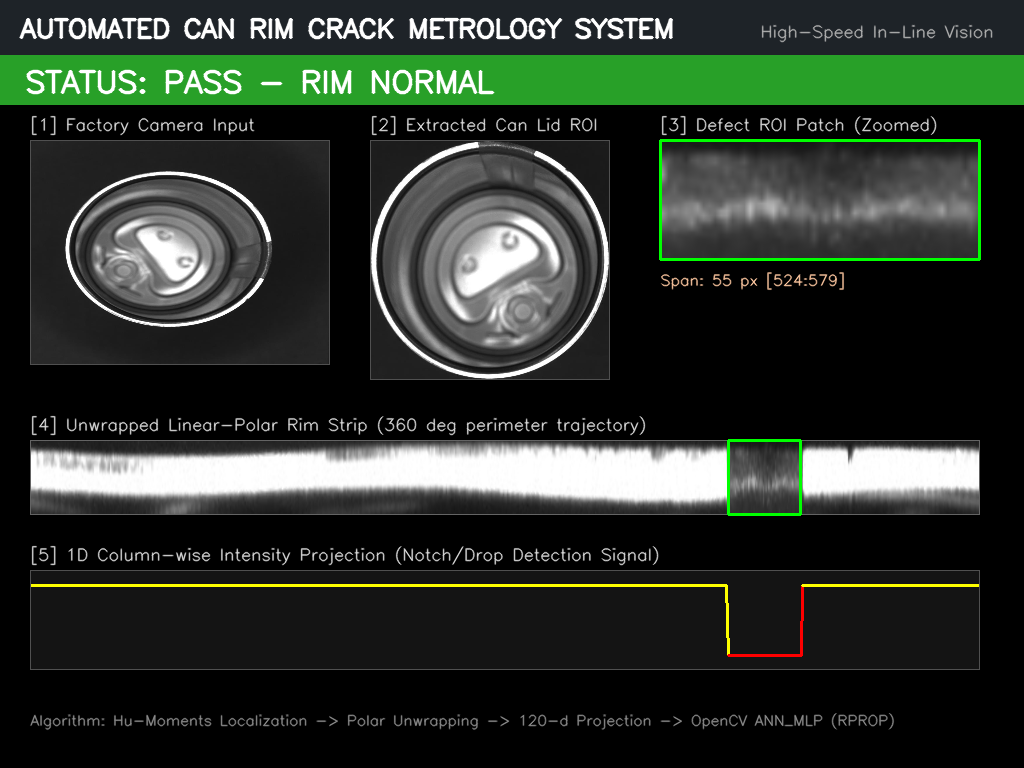
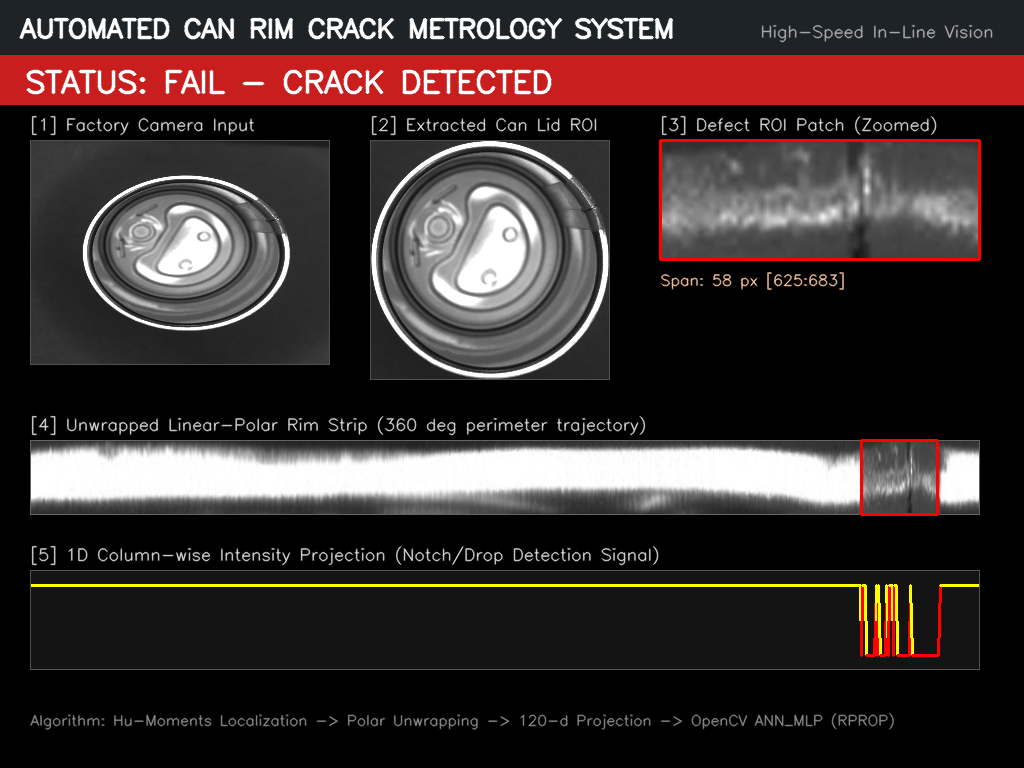
refactor: promote main.cpp to root, move auxiliary scripts to tools/, and configure .gitattributes for C++ dominance

diff --git a/README.md b/README.md
@@ -1,6 +1,6 @@
 # 🥫 ตรวจจับรอยแตกขอบฝากระป๋องด้วย OpenCV & ANN (Can Rim Crack Detection)
 
-ระบบตรวจสอบหา **รอยแตกที่แนวตะเข็บขอบฝากระป๋อง (Seam Flange Crack)** อัตโนมัติด้วย OpenCV และ Shallow Neural Network (`ANN_MLP`) พัฒนาด้วยภาษา C++ และ Python โดยใช้คณิตศาสตร์การแปลงพิกัดและการประมวลผลภาพแบบตรงไปตรงมา ไม่ต้องพึ่งพาโมเดล Deep Learning ขนาดใหญ่ ทำให้ทำงานได้เร็วระดับไมโครวินาทีและประหยัดสเปกเครื่อง เหมาะสำหรับงาน Machine Vision บนสายการผลิตจริงแบบ Real-time ครับ
+ระบบตรวจสอบหา **รอยแตกที่แนวตะเข็บขอบฝากระป๋อง (Seam Flange Crack)** อัตโนมัติด้วยภาษา C++ และ OpenCV ร่วมกับ Shallow Neural Network (`ANN_MLP`) โดยใช้คณิตศาสตร์การแปลงพิกัด Polar และการวิเคราะห์สัญญาณความสว่างแบบตรงไปตรงมา ไม่ต้องพึ่งพาโมเดล Deep Learning ขนาดใหญ่ ทำให้ทำงานได้เร็วระดับไมโครวินาที (3.4 µs) และประหยัดสเปกเครื่อง เหมาะสำหรับระบบตรวจสอบบนสายการผลิตจริงแบบ Real-time ครับ
 
 ---
 
@@ -204,52 +204,55 @@ if (result == 0) {
 
 ```bash
 can_crack/
-├── src/
-│   └── main.cpp             # โค้ดหลักภาษา C++ พัฒนาต่อจาก Lab4Contour.cpp
-├── python/
-│   ├── inspect_rim.py       # สคริปต์ Python สำหรับรันและทดสอบระบบได้ทันที
-│   ├── train_mlp.py         # สคริปต์ทดสอบเทรนและประเมินโมเดล model.xml
-│   └── generate_real_lab_assets.py  # สคริปต์สร้างภาพและกราฟขั้นตอนแล็บจากภาพกระป๋องจริง Bad(1) และ Good(1)
+├── main.cpp                 # โค้ดหลักภาษา C++ พัฒนาต่อจาก Lab4Contour.cpp (Core Engine)
+├── CMakeLists.txt           # สคริปต์สำหรับคอมไพล์ C++ ด้วย CMake
+├── build.bat                # สคริปต์ดับเบิลคลิกคอมไพล์ C++ บน Windows
 ├── models/
 │   └── model.xml            # โมเดลน้ำหนัก `ANN_MLP` โครงสร้าง 120-15-2 จากแล็บ
 ├── data/
-│   ├── samples/             # ภาพตัวอย่าง crack0 - crack8 และภาพกระป๋อง
+│   ├── raw_cans/            # ภาพกระป๋องจริง Bad (1-10) และ Good (1-6)
+│   ├── samples/             # ภาพตัวอย่าง crack0 - crack8 และแถบขอบกระป๋อง
 │   ├── reference_patches/   # ภาพแพทช์มาตรฐานอ้างอิง p00 - p50
 │   └── dataset/             # ข้อมูล 120-d (in.txt) และเฉลย (out.txt) 1,386 ตัวอย่าง
 ├── assets/
 │   └── lab_steps/           # ภาพผลลัพธ์ขั้นตอนจริงทั้งหมดที่ใช้ใน README นี้
-├── CMakeLists.txt           # สคริปต์สำหรับคอมไพล์ C++ ด้วย CMake
-├── build.bat                # สคริปต์ดับเบิลคลิกคอมไพล์ C++ บน Windows
-└── requirements.txt         # ไลบรารี Python สำหรับรันโปรเจกต์
+└── tools/                   # สคริปต์เสริม (สำหรับเทรนโมเดลและวาดรูปประกอบ README)
+    ├── generate_real_lab_assets.py  # สคริปต์พลอตกราฟและทำภาพประกอบใน README
+    ├── train_mlp.py                 # สคริปต์ประเมินผลโมเดลและคำนวณสถิติ
+    └── inspect_rim.py               # สคริปต์รันตรวจสอบทางเลือก
 ```
 
 ---
 
-## 🚀 วิธีการทดสอบรันโค้ด
+## 🚀 วิธีการคอมไพล์และรัน C++ บน Windows
 
-### แบบที่ 1: รันด้วย Python (สะดวกและรวดเร็ว)
+โปรเจกต์นี้มีสคริปต์ `build.bat` ให้เรียบร้อย สามารถเปิด Command Prompt แล้วรันได้ทันที:
 
-```bash
-# 1. ติดตั้งไลบรารี
-pip install -r requirements.txt
+### 1. คอมไพล์โปรเจกต์
+```cmd
+build.bat
+```
+*(สคริปต์จะเรียก CMake และ MSVC เพื่อสร้างไฟล์รัน `build\bin\Release\can_crack_inspector.exe` พร้อมคัดลอก OpenCV DLL ให้เสร็จสรรพ)*
 
-# 2. ทดสอบตรวจสอบภาพที่มีรอยแตก
-python python/inspect_rim.py --image data/samples/crack1.jpg --output assets/result.png
+### 2. รันโปรแกรมตรวจสอบชิ้นงาน
+```cmd
+:: ทดสอบกระป๋องจริงที่มีรอยแตกที่แนวตะเข็บ (CRACK - FAIL)
+build\bin\Release\can_crack_inspector.exe "data\raw_cans\Bad (1).jpg" models\model.xml
 
-# 3. ทดสอบตรวจสอบภาพปกติ
-python python/inspect_rim.py --image data/samples/crack5.jpg
-
-# 4. ทดสอบประเมินโมเดลกับข้อมูล 1,386 ตัวอย่าง
-python python/train_mlp.py --evaluate_only
+:: ทดสอบกระป๋องปกติที่ไม่มีรอยแตก (NORMAL - PASS)
+build\bin\Release\can_crack_inspector.exe "data\raw_cans\Good (1).jpg" models\model.xml
 ```
 
-### แบบที่ 2: คอมไพล์และรัน C++ บน Windows
+---
 
-โปรเจกต์มีสคริปต์ `build.bat` ให้เรียบร้อย สามารถรันผ่าน Command Prompt ได้เลย:
-```cmd
-:: คอมไพล์โปรเจกต์ C++
-build.bat
+### 🛠 เครื่องมือเสริมสำหรับทดสอบ (Optional Python Tools)
+สำหรับใครที่ต้องการทดสอบประเมินโมเดลหรือสร้างรูปประกอบ README ใหม่ สามารถใช้สคริปต์ในโฟลเดอร์ `tools/` ได้ครับ:
+```bash
+pip install -r requirements.txt
 
-:: รันโปรแกรมตรวจสอบ
-build\bin\Release\can_crack_inspector.exe data\samples\crack1.jpg models\model.xml
+# ประเมินสถิติความแม่นยำของโมเดลกับข้อมูล 1,386 ตัวอย่าง
+python tools/train_mlp.py --evaluate_only
+
+# สร้างภาพขั้นตอนทั้งหมดประกอบ README ใหม่
+python tools/generate_real_lab_assets.py
 ```
